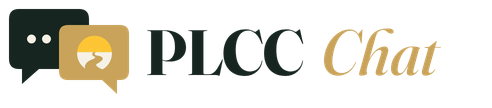
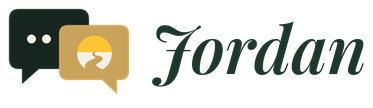
Rename PLCC Chat to Jordan
- App name, page title, install name and all on-screen text: Jordan
- New Jordan seal and wordmark (same river artwork, new name)
- References to PLCC Connect / PLCC Tithe now say Tribes / Firstfruits

Claude-Session: https://claude.ai/code/session_01D5Y75h2QJ2P9HNQtHcMDUn

Changed region(s): [[0.0, 0.0556, 0.9732, 0.8611]]

diff --git a/components/chat/AccountMenu.tsx b/components/chat/AccountMenu.tsx
@@ -46,7 +46,7 @@ const AlertsRow: React.FC = () => {
     state == null
       ? 'Checking…'
       : state.kind === 'needs-install'
-        ? 'On iPhone, add PLCC Chat to your Home Screen first, then turn this on there.'
+        ? 'On iPhone, add Jordan to your Home Screen first, then turn this on there.'
         : state.kind === 'blocked'
           ? 'Blocked. Allow notifications for this site in your phone or browser settings.'
           : on
@@ -99,7 +99,7 @@ const AlertsRow: React.FC = () => {
   );
 };
 
-/** Your name + menu: message alerts, open PLCC Connect, open the Vault, sign out. */
+/** Your name + menu: message alerts, open Tribes, open the Vault, sign out. */
 export const AccountMenu: React.FC = () => {
   const { identity, signOut } = useAuth();
   const navigate = useNavigate();
@@ -130,7 +130,7 @@ export const AccountMenu: React.FC = () => {
         type="button"
         onClick={() => setOpen(true)}
         className="inline-flex items-center gap-1.5 min-h-[44px] pl-1 pr-2.5 rounded-full border border-gray-200 bg-white shadow-sm hover:bg-gray-50 active:bg-gray-50"
-        aria-label="Your account: PLCC Connect, PLCC Canaan, and sign out"
+        aria-label="Your account: Tribes, PLCC Canaan, and sign out"
         aria-haspopup="dialog"
       >
         <span className="h-9 w-9 rounded-full bg-burgundy text-white text-sm font-bold flex items-center justify-center">
@@ -171,7 +171,7 @@ export const AccountMenu: React.FC = () => {
             <AlertsRow />
 
             <a href={CONNECT_URL} className={linkRow}>
-              <span>Open PLCC Connect</span>
+              <span>Open Tribes</span>
               <ExternalLink size={18} className="text-burgundy" aria-hidden />
             </a>
             <a href={VAULT_URL} className={linkRow}>
@@ -190,7 +190,7 @@ export const AccountMenu: React.FC = () => {
                 className="w-full min-h-[52px] rounded-2xl border-2 border-burgundy text-burgundy font-extrabold flex items-center justify-center gap-2 disabled:opacity-60"
               >
                 {busy ? <Loader2 className="animate-spin" size={18} /> : <LogOut size={18} aria-hidden />}
-                Sign out of PLCC Chat
+                Sign out of Jordan
               </button>
               {error ? <p className="text-sm text-burgundy mt-2">{error}</p> : null}
               <p className="text-xs text-gray-500 mt-2 text-center">

diff --git a/pages/SignedOut.tsx b/pages/SignedOut.tsx
@@ -7,14 +7,14 @@ import { CONNECT_URL, VAULT_URL } from '../lib/appLinks';
 export const SignedOut: React.FC = () => (
   <main className="flex-1 px-6 pt-16 pb-10 flex flex-col items-center text-center">
     <AWCLogo size={88} className="mb-4" />
-    <h1 className="text-2xl font-bold text-[#1A1A1A]">You’re signed out of PLCC Chat</h1>
+    <h1 className="text-2xl font-bold text-[#1A1A1A]">You’re signed out of Jordan</h1>
     <p className="text-sm text-gray-500 mt-2 max-w-sm">Where would you like to go?</p>
     <div className="w-full max-w-sm mt-8 space-y-3">
       <a
         href={CONNECT_URL}
         className="w-full min-h-[56px] rounded-2xl bg-burgundy text-white font-extrabold text-base flex items-center justify-center"
       >
-        Go to PLCC Connect
+        Go to Tribes
       </a>
       <a
         href={VAULT_URL}
@@ -26,7 +26,7 @@ export const SignedOut: React.FC = () => (
         to="/sign-in"
         className="w-full min-h-[56px] rounded-2xl border-2 border-burgundy text-burgundy font-extrabold text-base flex items-center justify-center"
       >
-        Sign in to PLCC Chat again
+        Sign in to Jordan again
       </Link>
     </div>
   </main>

diff --git a/api/community-chat.js b/api/community-chat.js
@@ -147,7 +147,7 @@ function json(res, status, body) {
   res.status(status).json(body);
 }
 
-/** PLCC Connect (Serve sign-ups). Fixed server-side; never from the browser. */
+/** Tribes (Serve sign-ups). Fixed server-side; never from the browser. */
 function connectApiOrigin() {
   const raw = String(process.env.CONNECT_API_ORIGIN || 'https://plcc-connect.vercel.app').trim().replace(/\/+$/, '');
   return /^https:\/\/[a-z0-9.-]+$/i.test(raw) ? raw : null;
@@ -708,7 +708,7 @@ export default async function handler(req, res) {
         return json(res, 200, { ok: true, going: body?.going === true, goingCount: Math.max(0, Math.floor(Number(body?.goingCount) || 0)) });
       }
       if (resource === 'serve-signup') {
-        // Serve sign-up runs through PLCC Connect's Serve API (staff-verified eligibility + RPC).
+        // Serve sign-up runs through Tribes's Serve API (staff-verified eligibility + RPC).
         if (!only(['opportunityId', 'action']) || !UUID_RE.test(String(b.opportunityId || ''))) return bad();
         if (b.action !== 'signup' && b.action !== 'cancel') return bad();
         const connectOrigin = connectApiOrigin();

diff --git a/public/sw.js b/public/sw.js
@@ -1,6 +1,6 @@
 /*
- * PLCC Chat service worker — phone alerts only.
- * It does not cache pages or files (PLCC Chat always loads fresh), so a deploy
+ * Jordan service worker — phone alerts only.
+ * It does not cache pages or files (Jordan always loads fresh), so a deploy
  * can never leave members stuck on an old version.
  */
 self.addEventListener('install', () => self.skipWaiting());
@@ -23,7 +23,7 @@ self.addEventListener('push', (event) => {
   } catch (_) {
     data = { body: event.data ? event.data.text() : '' };
   }
-  const title = String(data.title || 'PLCC Chat').slice(0, 80);
+  const title = String(data.title || 'Jordan').slice(0, 80);
   const url = safeUrl(data.url);
   event.waitUntil(
     (async () => {
@@ -64,5 +64,5 @@ self.addEventListener('notificationclick', (event) => {
 });
 
 // The browser replaced this phone's subscription: alerts resume next time
-// PLCC Chat opens (lib/phoneAlerts.ts re-saves it).
+// Jordan opens (lib/phoneAlerts.ts re-saves it).
 self.addEventListener('pushsubscriptionchange', () => {});

diff --git a/components/community/ConnectVoiceHuddle.tsx b/components/community/ConnectVoiceHuddle.tsx
@@ -357,10 +357,10 @@ export const ConnectVoiceHuddle: React.FC<Props> = ({
   /** Share a one-tap join link for this huddle (native share sheet, else copy). */
   const shareHuddle = useCallback(async () => {
     // One link for both apps: the Vault's share page shows the WhatsApp card and opens
-    // the Vault for signed-in staff, PLCC Connect for everyone else — same live call.
+    // the Vault for signed-in staff, Tribes for everyone else — same live call.
     const url = `${VAULT_PUBLIC_ORIGIN}/api/share-huddle?channel=${encodeURIComponent(channelId)}`;
     const name = title || channelName || 'Live Huddle';
-    const text = `Join the "${name}" Live Huddle. Sign in to PLCC Connect or PLCC Canaan, then tap the huddle link. It opens right into the prayer call:`;
+    const text = `Join the "${name}" Live Huddle. Sign in to Tribes or PLCC Canaan, then tap the huddle link. It opens right into the prayer call:`;
     const flash = (msg: string) => {
       setShareDone(msg);
       window.setTimeout(() => setShareDone(null), 2000);

diff --git a/pages/ShareToChat.tsx b/pages/ShareToChat.tsx
@@ -7,7 +7,7 @@ import type { CommunityChatChannel } from '../lib/communityChatTypes';
 const UUID_RE = /^[0-9a-f]{8}-[0-9a-f]{4}-[0-9a-f]{4}-[0-9a-f]{4}-[0-9a-f]{12}$/i;
 
 /**
- * /share?kind=event|serve&id=…  — opened from PLCC Connect or the Vault ("Share to PLCC Chat").
+ * /share?kind=event|serve&id=…  — opened from Tribes or the Vault ("Share to Jordan").
  * Pick a chat, add a note, and the event or Serve need posts there as a card.
  */
 export const ShareToChat: React.FC = () => {
@@ -66,7 +66,7 @@ export const ShareToChat: React.FC = () => {
 
   return (
     <main className="flex-1 w-full max-w-[500px] mx-auto px-5 pt-6 pb-10 flex flex-col gap-4">
-      <h1 className="text-2xl font-bold text-[#1A1A1A]">Share to PLCC Chat</h1>
+      <h1 className="text-2xl font-bold text-[#1A1A1A]">Share to Jordan</h1>
 
       {!valid ? (
         <p className="text-base text-burgundy">That link isn’t complete. Please go back and try again.</p>

diff --git a/components/chat/ChatAlertsCard.tsx b/components/chat/ChatAlertsCard.tsx
@@ -73,9 +73,9 @@ export const ChatAlertsCard: React.FC = () => {
 
   const body =
     state.kind === 'needs-install'
-      ? 'On iPhone, alerts work from the Home Screen app: tap Share, then “Add to Home Screen”, then open PLCC Chat from that icon.'
+      ? 'On iPhone, alerts work from the Home Screen app: tap Share, then “Add to Home Screen”, then open Jordan from that icon.'
       : state.kind === 'blocked'
-        ? 'Alerts are blocked for PLCC Chat. Allow notifications for this site in your phone or browser settings, then come back.'
+        ? 'Alerts are blocked for Jordan. Allow notifications for this site in your phone or browser settings, then come back.'
         : 'Get a notification on this phone when someone sends a message — just like WhatsApp.';
 
   return (

diff --git a/pages/MemberSignIn.tsx b/pages/MemberSignIn.tsx
@@ -427,11 +427,11 @@ export const MemberSignIn: React.FC = () => {
 
           <p className="text-xs text-gray-500 leading-relaxed text-center px-2">
             Email: we send you a one-time code. Phone: use your account password. Same account
-            as PLCC Connect and PLCC Canaan.
+            as Tribes and PLCC Canaan.
           </p>
           <p className="text-sm text-center">
             <a href="https://plcc-connect.vercel.app/" className="font-bold text-burgundy underline">
-              Go to PLCC Connect
+              Go to Tribes
             </a>
             <span className="text-gray-400 mx-2">·</span>
             <a href="https://plcc-opal.vercel.app/" className="font-bold text-burgundy underline">

diff --git a/index.html b/index.html
@@ -5,8 +5,8 @@
   <meta charset="UTF-8" />
   <meta name="viewport" content="width=device-width, initial-scale=1.0, viewport-fit=cover" />
   <meta name="theme-color" content="#0e1512" />
-  <meta name="description" content="PLCC Chat — messages, ministry rooms and Live Huddles for Promised Land Christian Center." />
-  <title>PLCC Chat</title>
+  <meta name="description" content="Jordan — messages, ministry rooms and Live Huddles for Promised Land Christian Center." />
+  <title>Jordan</title>
   <link rel="icon" href="/favicon.ico" sizes="any" />
   <link rel="icon" type="image/png" sizes="64x64" href="/favicon.png" />
   <link rel="apple-touch-icon" sizes="180x180" href="/apple-touch-icon.png" />

diff --git a/App.tsx b/App.tsx
@@ -6,10 +6,10 @@ import { MemberGate } from './components/auth/MemberGate';
 import { LazyRoute } from './components/routing/LazyRoute';
 
 /**
- * PLCC Chat — standalone chat + Live Huddle for Promised Land Christian Center.
+ * Jordan — standalone chat + Live Huddle for Promised Land Christian Center.
  *
  * Everything goes through the PLCC Canaan (same rooms, messages and huddles as
- * Vault Chat and PLCC Connect). Paths match Connect so shared links keep working.
+ * Vault Chat and Tribes). Paths match Connect so shared links keep working.
  */
 const MemberSignIn = lazy(() =>
   import('./pages/MemberSignIn').then((m) => ({ default: m.MemberSignIn }))

diff --git a/pages/ChatHome.tsx b/pages/ChatHome.tsx
@@ -64,7 +64,7 @@ export const ChatHome: React.FC = () => {
         ) : (
           <div className="flex-1 flex flex-col items-center justify-center text-center px-10 text-gray-500">
             <MessageCircle size={48} className="text-burgundy/40 mb-4" aria-hidden />
-            <p className="text-lg font-bold text-[#1A1A1A]">PLCC Chat</p>
+            <p className="text-lg font-bold text-[#1A1A1A]">Jordan</p>
             <p className="text-sm mt-1 max-w-sm">
               Pick a room or a person on the left to start chatting. Live Huddles open right here.
             </p>

diff --git a/pages/CommunityChatRoom.tsx b/pages/CommunityChatRoom.tsx
@@ -73,7 +73,7 @@ import { CHAT_LEADER_ROLES } from '../lib/chatRoles';
 /** Backup refresh when the live connection is up (it normally delivers instantly). */
 const LIVE_POLL_MS = 30_000;
 
-/** The Intercessors Prayer Watch lives in PLCC Connect. */
+/** The Intercessors Prayer Watch lives in Tribes. */
 const PRAYER_WATCH_URL = 'https://plcc-connect.vercel.app/intercessors';
 const HUDDLE_NOT_STARTED_TEXT =
   "This huddle hasn't started yet. A leader or room moderator will start it — you can join as soon as it's live.";
